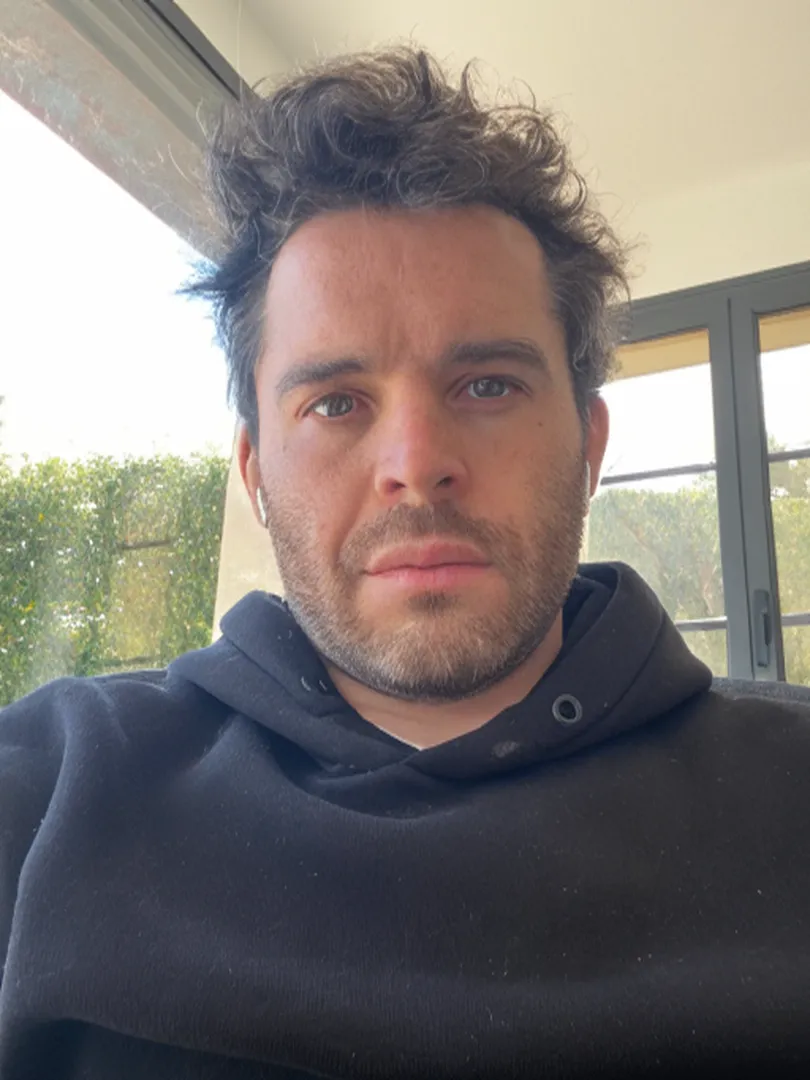
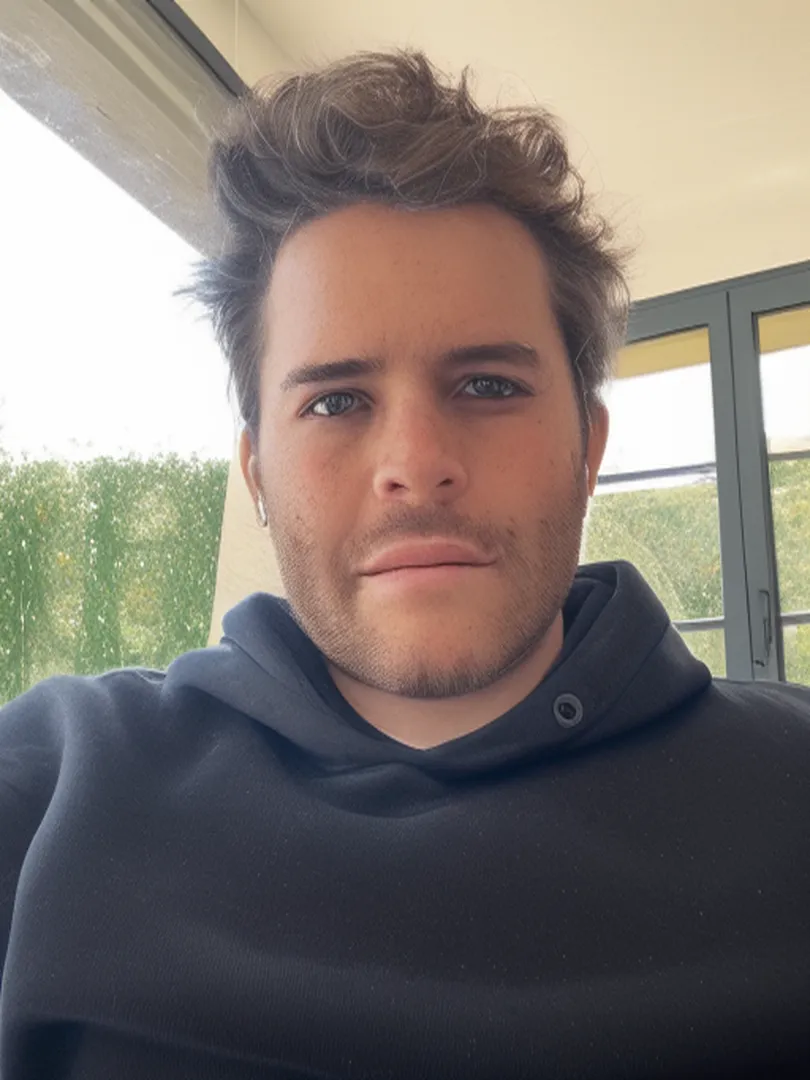
featured image

diff --git a/enhance_image.py b/enhance_image.py
@@ -36,7 +36,7 @@ prompt = "With blonde hair, and smiling. Keep the same face."
 negative_prompt = "ugly, deformed, disfigured, poor details, bad anatomy"
 
 # pass prompt and image to pipeline
-image = pipeline(prompt, negative_prompt=negative_prompt, image=init_image, strength=0.01, guidance_scale=1.0).images[0]
+image = pipeline(prompt, negative_prompt=negative_prompt, image=init_image, strength=0.05, guidance_scale=0.8, num_inference_steps=100).images[0]
 
 # Resize the generated image to the enhanced image size so it can be compared
 image_resized = image.resize(
